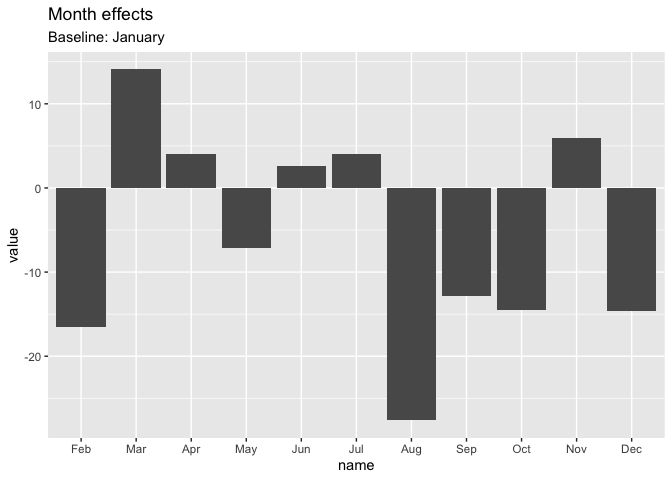
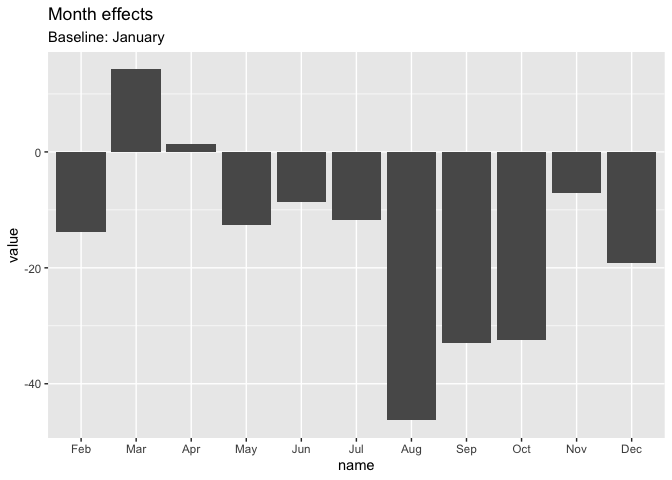
stationary = F

diff --git a/topics/dailyadj/vignettes/overview.md b/topics/dailyadj/vignettes/overview.md
@@ -120,8 +120,7 @@ not want to use the seasonal part of the model, since we use dummies for
 this purpose.
 
 ``` r
-# ARMA
-fit <- auto.arima(x$value, stationary = TRUE, seasonal = FALSE, xreg = as.matrix(dums[, -1]))
+fit <- auto.arima(x$value, seasonal = FALSE, xreg = as.matrix(dums[, -1]))
 
 adj <- x
 adj$value <- as.numeric(fit$fitted)
